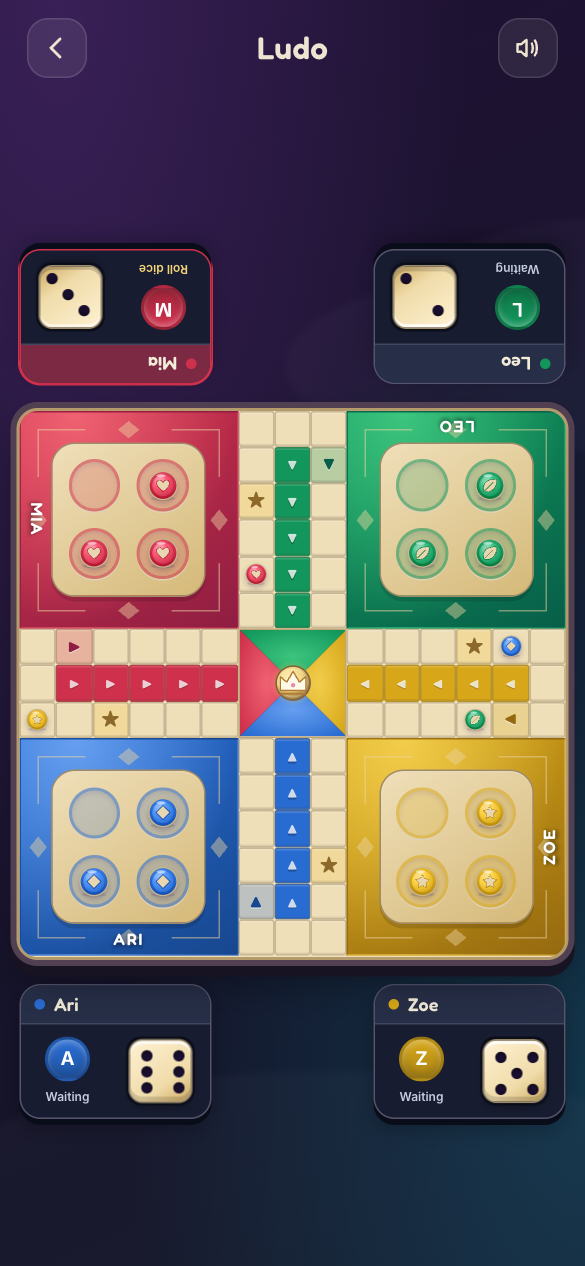
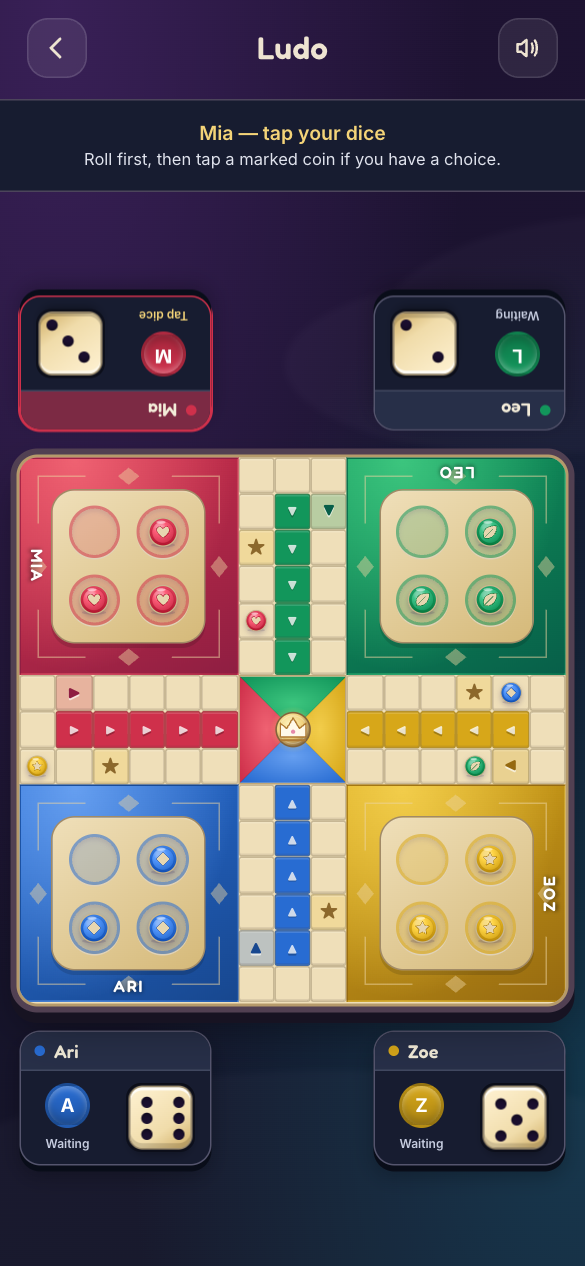
Clarify Ludo next actions and soften sound effects

diff --git a/src/lib/sound.ts b/src/lib/sound.ts
@@ -12,6 +12,7 @@
 // click, etc.), well before they get to the dice.
 
 let ctx: AudioContext | null = null;
+let output: GainNode | null = null;
 let enabled = true;
 let unlocked = false;
 
@@ -21,6 +22,10 @@ function getCtx(): AudioContext | null {
     const AudioCtx = window.AudioContext || (window as unknown as { webkitAudioContext?: typeof AudioContext }).webkitAudioContext;
     if (!AudioCtx) return null;
     ctx = new AudioCtx();
+    // Keep effects in the background, including overlapping celebration notes.
+    output = ctx.createGain();
+    output.gain.value = 0.45;
+    output.connect(ctx.destination);
   }
   if (ctx.state === 'suspended') void ctx.resume();
   return ctx;
@@ -36,7 +41,7 @@ function unlockAudio() {
     const buffer = ac.createBuffer(1, 1, 22050);
     const source = ac.createBufferSource();
     source.buffer = buffer;
-    source.connect(ac.destination);
+    source.connect(output ?? ac.destination);
     source.start(0);
   } catch {
     // ignore — some browsers throw if the context isn't ready yet
@@ -102,7 +107,7 @@ export function playDice() {
     noiseGain.gain.exponentialRampToValueAtTime(0.001, at + dur);
     noise.connect(bp);
     bp.connect(noiseGain);
-    noiseGain.connect(ac.destination);
+    noiseGain.connect(output ?? ac.destination);
     noise.start(at);
     noise.stop(at + dur);
 
@@ -118,7 +123,7 @@ export function playDice() {
       oscGain.gain.linearRampToValueAtTime(0.12, at + 0.003);
       oscGain.gain.exponentialRampToValueAtTime(0.001, at + 0.05);
       osc.connect(oscGain);
-      oscGain.connect(ac.destination);
+      oscGain.connect(output ?? ac.destination);
       osc.start(at);
       osc.stop(at + 0.06);
     }
@@ -139,16 +144,17 @@ export function playMove() {
   osc.frequency.setValueAtTime(820, now);
   osc.frequency.exponentialRampToValueAtTime(560, now + 0.06);
 
-  gain.gain.setValueAtTime(0.25, now);
+  gain.gain.setValueAtTime(0, now);
+  gain.gain.linearRampToValueAtTime(0.16, now + 0.008);
   gain.gain.exponentialRampToValueAtTime(0.001, now + 0.08);
 
   osc.connect(gain);
-  gain.connect(ac.destination);
+  gain.connect(output ?? ac.destination);
   osc.start(now);
   osc.stop(now + 0.1);
 }
 
-// Capture: descending arpeggio, sawtooth + lowpass, slightly menacing.
+// Capture: a warm descending arpeggio with softened harmonics.
 export function playCapture() {
   if (!enabled) return;
   const ac = getCtx();
@@ -162,14 +168,14 @@ export function playCapture() {
     const lp = ac.createBiquadFilter();
     lp.type = 'lowpass';
     lp.frequency.value = 1600;
-    osc.type = 'sawtooth';
+    osc.type = 'triangle';
     osc.frequency.setValueAtTime(freq, start + i * step);
     gain.gain.setValueAtTime(0, start + i * step);
     gain.gain.linearRampToValueAtTime(0.18, start + i * step + 0.01);
     gain.gain.exponentialRampToValueAtTime(0.001, start + i * step + step);
     osc.connect(lp);
     lp.connect(gain);
-    gain.connect(ac.destination);
+    gain.connect(output ?? ac.destination);
     osc.start(start + i * step);
     osc.stop(start + i * step + step + 0.02);
   });
@@ -190,7 +196,7 @@ export function playSnake() {
   gain.gain.linearRampToValueAtTime(0.25, now + 0.04);
   gain.gain.exponentialRampToValueAtTime(0.001, now + 0.65);
   osc.connect(gain);
-  gain.connect(ac.destination);
+  gain.connect(output ?? ac.destination);
   osc.start(now);
   osc.stop(now + 0.7);
 }
@@ -212,7 +218,7 @@ export function playLadder() {
     gain.gain.linearRampToValueAtTime(0.18, start + i * step + 0.01);
     gain.gain.exponentialRampToValueAtTime(0.001, start + i * step + step);
     osc.connect(gain);
-    gain.connect(ac.destination);
+    gain.connect(output ?? ac.destination);
     osc.start(start + i * step);
     osc.stop(start + i * step + step + 0.02);
   });
@@ -236,7 +242,7 @@ export function playHomeArrival() {
     gain.gain.linearRampToValueAtTime(0.22, start + i * step + 0.015);
     gain.gain.exponentialRampToValueAtTime(0.001, start + i * step + 0.32);
     osc.connect(gain);
-    gain.connect(ac.destination);
+    gain.connect(output ?? ac.destination);
     osc.start(start + i * step);
     osc.stop(start + i * step + 0.36);
   });
@@ -259,7 +265,7 @@ export function playWin() {
     gain.gain.linearRampToValueAtTime(0.22, start + i * step + 0.04);
     gain.gain.exponentialRampToValueAtTime(0.001, start + i * step + 0.5);
     osc.connect(gain);
-    gain.connect(ac.destination);
+    gain.connect(output ?? ac.destination);
     osc.start(start + i * step);
     osc.stop(start + i * step + 0.55);
   });
@@ -275,10 +281,11 @@ export function playTap() {
   const now = ac.currentTime;
   osc.type = 'sine';
   osc.frequency.setValueAtTime(1200, now);
-  gain.gain.setValueAtTime(0.08, now);
+  gain.gain.setValueAtTime(0, now);
+  gain.gain.linearRampToValueAtTime(0.06, now + 0.004);
   gain.gain.exponentialRampToValueAtTime(0.001, now + 0.04);
   osc.connect(gain);
-  gain.connect(ac.destination);
+  gain.connect(output ?? ac.destination);
   osc.start(now);
   osc.stop(now + 0.05);
 }
@@ -298,7 +305,7 @@ export function playSafeArrival() {
     gain.gain.linearRampToValueAtTime(0.1, at + 0.012);
     gain.gain.exponentialRampToValueAtTime(0.001, at + 0.28);
     osc.connect(gain);
-    gain.connect(ac.destination);
+    gain.connect(output ?? ac.destination);
     osc.start(at);
     osc.stop(at + 0.3);
   });

diff --git a/src/games/ludo/turnGuidance.ts b/src/games/ludo/turnGuidance.ts
@@ -1,0 +1,28 @@
+import type { LudoGameState } from './types';
+
+type TurnState = Pick<LudoGameState, 'players' | 'currentPlayerIndex' | 'gamePhase' | 'isRolling' | 'diceValue' | 'selectableTokenIds' | 'message'>;
+
+// Derive instructions from the actual phase, including automatic moves and bots.
+export function turnGuidance(state: TurnState): { title: string; detail: string } {
+  const { players, currentPlayerIndex, gamePhase, isRolling, diceValue, selectableTokenIds, message } = state;
+  const player = players[currentPlayerIndex];
+  if (!player || gamePhase === 'setup') return { title: 'Getting ready', detail: '' };
+  if (gamePhase === 'finished') return { title: message, detail: '' };
+  if (isRolling) return { title: `${player.name} is rolling…`, detail: 'Wait for the dice to settle.' };
+  if (gamePhase === 'selecting') {
+    if (player.isCPU) return { title: `${player.name} is choosing a coin…`, detail: 'The bot will move automatically.' };
+    const choices = players.flatMap(p => p.tokens).filter(t => selectableTokenIds.includes(t.id));
+    const hasYard = choices.some(t => t.state === 'yard');
+    const hasPath = choices.some(t => t.state === 'active');
+    const detail = diceValue === 6 && hasYard
+      ? hasPath ? 'Bring a coin out of its yard or move one 6 spaces.' : 'Tap a marked coin in your yard to bring it onto the board.'
+      : `Tap a marked coin on the board to move ${diceValue} spaces.`;
+    return { title: `${player.name} rolled ${diceValue} — tap a marked coin`, detail };
+  }
+  if (gamePhase === 'moving') return { title: `${player.name}’s coin is moving…`, detail: 'The move finishes automatically.' };
+  if (diceValue !== null) return { title: message, detail: 'Please wait for the next turn.' };
+  return {
+    title: player.isCPU ? `${player.name} is about to roll…` : `${player.name} — tap your dice`,
+    detail: player.isCPU ? 'The bot plays automatically.' : message.includes('Bonus turn') ? 'Bonus turn — roll again.' : 'Roll first, then tap a marked coin if you have a choice.',
+  };
+}

diff --git a/src/games/ludo/turnGuidance.test.ts b/src/games/ludo/turnGuidance.test.ts
@@ -1,0 +1,31 @@
+import { describe, expect, it } from 'vitest';
+import { turnGuidance } from './turnGuidance';
+import type { Player } from './types';
+
+const player: Player = {
+  id: 'blue', name: 'Asha', color: 'blue', displayColor: 'blue', finishOrder: 0, lastRoll: 6,
+  tokens: [
+    { id: 'yard', color: 'blue', displayColor: 'blue', state: 'yard', pathIndex: -1 },
+    { id: 'path', color: 'blue', displayColor: 'blue', state: 'active', pathIndex: 4 },
+  ],
+};
+const state = { players: [player], currentPlayerIndex: 0, gamePhase: 'selecting' as const, isRolling: false, diceValue: 6, selectableTokenIds: ['yard', 'path'], message: '' };
+
+describe('turn guidance', () => {
+  it('explains both choices on a six, and yard-only entry', () => {
+    expect(turnGuidance(state).detail).toContain('or move one 6 spaces');
+    expect(turnGuidance({ ...state, selectableTokenIds: ['yard'] }).detail).toContain('in your yard');
+  });
+  it('does not ask humans to act during bot or automatic movement', () => {
+    expect(turnGuidance({ ...state, players: [{ ...player, isCPU: true }] }).detail).toContain('automatically');
+    expect(turnGuidance({ ...state, gamePhase: 'moving' }).detail).toContain('automatically');
+  });
+  it('shows a roll instruction only when another roll is available', () => {
+    expect(turnGuidance({ ...state, gamePhase: 'rolling', diceValue: null }).title).toContain('tap your dice');
+    expect(turnGuidance({ ...state, gamePhase: 'rolling', message: 'No valid moves!' }).title).toBe('No valid moves!');
+    expect(turnGuidance({ ...state, isRolling: true }).title).toContain('is rolling');
+  });
+  it('explains ordinary moves without suggesting a yard exit', () => {
+    expect(turnGuidance({ ...state, diceValue: 3, selectableTokenIds: ['path'] }).detail).toBe('Tap a marked coin on the board to move 3 spaces.');
+  });
+});

diff --git a/src/pages/LudoGame.tsx b/src/pages/LudoGame.tsx
@@ -10,7 +10,9 @@ import PlayerHalfRow from '../games/ludo/components/PlayerHalfRow';
 import type { Player, PlayerColor } from '../games/ludo/types';
 import WinnerModal from '../components/WinnerModal';
 import ConfirmExitModal from '../components/ConfirmExitModal';
+import { useSettings } from '../games/settings/store';
 import LiveRegion from '../components/ui/LiveRegion';
+import { turnGuidance } from '../games/ludo/turnGuidance';
 import { useFlow } from '../games/flow/store';
 import { pickCpuToken } from '../games/ludo/cpu';
 import { useLayoutMode } from '../lib/useLayout';
@@ -18,6 +20,7 @@ import { useRecordOnFinish } from '../lib/useRecordOnFinish';
 
 const LudoGame: React.FC = () => {
   const navigate = useNavigate();
+  const showInstructions = useSettings(s => s.ludoInstructions);
   const initialized = useRef(false);
   const flowPlayers = useFlow(s => s.players);
   const flowGame = useFlow(s => s.game);
@@ -158,14 +161,20 @@ const LudoGame: React.FC = () => {
         position: 'relative',
       };
 
+  const guidance = turnGuidance({ players, currentPlayerIndex, gamePhase, isRolling, diceValue, selectableTokenIds, message });
+
   return (
     <PhoneShell decorative={false} fluid>
-      <LiveRegion text={message} />
       <Header
         title="Ludo"
         onBack={handleBack}
         action={<SoundToggle />}
       />
+
+      {showInstructions ? <div className="ludo-turn-guide" role="status" aria-live="polite" aria-atomic="true">
+        <strong>{guidance.title}</strong>
+        <span>{guidance.detail}</span>
+      </div> : <LiveRegion text={message} />}
 
       {isWide ? (
         <div

diff --git a/index.html b/index.html
@@ -17,12 +17,12 @@
     <meta property="og:title" content="Ludo Pitara — free Ludo & Snakes and Ladders, no ads" />
     <meta property="og:description" content="Play with friends on one phone or against bots. No ads, no sign-up, works offline." />
     <meta property="og:url" content="https://udeshvirk.github.io/ludo-pitara/" />
-    <meta property="og:image" content="https://udeshvirk.github.io/ludo-pitara/og-image-f053263353.png" />
+    <meta property="og:image" content="https://udeshvirk.github.io/ludo-pitara/og-image-13709b36df.png" />
     <meta property="og:image:width" content="1200" />
     <meta property="og:image:height" content="630" />
     <meta property="og:image:alt" content="Ludo and Snakes & Ladders boards on a phone" />
     <meta name="twitter:card" content="summary_large_image" />
-    <meta name="twitter:image" content="https://udeshvirk.github.io/ludo-pitara/og-image-f053263353.png" />
+    <meta name="twitter:image" content="https://udeshvirk.github.io/ludo-pitara/og-image-13709b36df.png" />
     <meta name="theme-color" content="#190a2e" />
     <meta name="apple-mobile-web-app-capable" content="yes" />
     <meta name="apple-mobile-web-app-status-bar-style" content="black-translucent" />

diff --git a/src/index.css b/src/index.css
@@ -350,3 +350,11 @@ button:focus-visible, a:focus-visible { outline: 3px solid #ffe18c; outline-offs
 .player-pod-compact .player-pod-tray { padding: 7px 9px; }
 .dice-well { padding: 3px; border-radius: 10px; background: #101323; box-shadow: inset 0 2px 4px #0006; }
 .table-die:focus-visible { outline: 2px solid #f1d27d; outline-offset: 6px; }
+
+/* Persistent next-action guidance, kept outside the square board. */
+.ludo-turn-guide { flex-shrink: 0; min-height: 62px; padding: 7px 13px; background: #171c30; border-block: 1px solid #4c455b; text-align: center; display: flex; flex-direction: column; justify-content: center; gap: 3px; }
+.ludo-turn-guide strong { color: #f4d478; font: 600 13px var(--font-ui); }
+.ludo-turn-guide span { color: #e0e3ed; font: 400 11px/1.35 var(--font-ui); }
+.ludo-coin-choice { border-radius: 50%; outline: 2px solid #fff2ba; outline-offset: 1px; box-shadow: 0 0 0 4px #37291d; }
+.ludo-coin-choice:focus-visible { outline: 3px solid white; outline-offset: 3px; }
+.ludo-coin-marker { position: absolute; top: -12px; left: 50%; transform: translateX(-50%); color: #fff2ba; font-size: 12px; line-height: 12px; text-shadow: 0 1px 2px #000, 1px 0 2px #000; pointer-events: none; }

diff --git a/src/components/ui/Pod.tsx b/src/components/ui/Pod.tsx
@@ -12,6 +12,7 @@ interface PodProps {
   lastRoll?: number | null;
   onRoll?: () => void;
   canRoll: boolean;
+  statusText?: string;
   compact?: boolean;
   isBot?: boolean;
   arrowSide?: 'left' | 'right';
@@ -20,8 +21,8 @@ interface PodProps {
 // A player identity strip sits above a dedicated dice tray. Names and turn
 // status stay inside the card, with no detached arrows or duplicate captions.
 export default function Pod({ color, label, name, isActive, isRolling, diceValue,
-  lastRoll = null, onRoll, canRoll, compact = false, isBot = false }: PodProps) {
-  const status = isActive ? (isRolling ? 'Rolling' : canRoll ? (isBot ? 'Bot turn' : 'Roll dice') : 'Your move') : 'Waiting';
+  lastRoll = null, onRoll, canRoll, statusText, compact = false, isBot = false }: PodProps) {
+  const status = statusText ?? (isActive ? (isRolling ? 'Rolling' : canRoll ? (isBot ? 'Bot turn' : 'Roll dice') : 'Your move') : 'Waiting');
   return (
     <div className={`player-pod ${compact ? 'player-pod-compact' : ''} ${isActive ? 'player-pod-active' : ''}`}
       aria-current={isActive ? 'true' : undefined} style={{ '--player-color': color } as CSSProperties}>

diff --git a/vite.config.ts b/vite.config.ts
@@ -25,9 +25,9 @@ export default defineConfig({
         theme_color: '#190a2e',
         // Phone screenshots give Android Chrome its richer install sheet.
         screenshots: [
-          { src: 'screenshots/ludo.png?v=e45e0717f7', sizes: '585x1266', type: 'image/png', form_factor: 'narrow', label: 'Ludo' },
-          { src: 'screenshots/snakes-and-ladders.png?v=ad81b54c2c', sizes: '585x1266', type: 'image/png', form_factor: 'narrow', label: 'Snakes & Ladders' },
-          { src: 'screenshots/game-select.png?v=dab704a093', sizes: '585x1266', type: 'image/png', form_factor: 'narrow', label: 'Choose a game' },
+          { src: 'screenshots/ludo.png?v=c3c603b508', sizes: '585x1266', type: 'image/png', form_factor: 'narrow', label: 'Ludo' },
+          { src: 'screenshots/snakes-and-ladders.png?v=5b553b49f7', sizes: '585x1266', type: 'image/png', form_factor: 'narrow', label: 'Snakes & Ladders' },
+          { src: 'screenshots/game-select.png?v=ba4f5e03cf', sizes: '585x1266', type: 'image/png', form_factor: 'narrow', label: 'Choose a game' },
         ],
         icons: [
           {

diff --git a/src/games/ludo/components/Token.tsx b/src/games/ludo/components/Token.tsx
@@ -26,8 +26,11 @@ const LudoTokenInner: React.FC<TokenProps> = ({ tokenId, color, isSelectable, st
   return (
     <motion.button
       layoutId={tokenId}
+      type="button"
+      className={isSelectable ? 'ludo-coin-choice' : undefined}
+      disabled={!isSelectable || suppressClick}
       onClick={() => !suppressClick && isSelectable && selectToken(tokenId)}
-      aria-label={`${color} token`}
+      aria-label={`${isSelectable ? 'Move' : ''} ${color} coin ${tokenId.split('-').at(-1)}`}
       style={{
         position: 'absolute',
         left: `${leftPercent}%`,
@@ -52,6 +55,7 @@ const LudoTokenInner: React.FC<TokenProps> = ({ tokenId, color, isSelectable, st
       // is preferred over a corner-cutting glide.
       transition={{ type: 'tween', ease: 'linear', duration: 0.09 }}
     >
+      {isSelectable && <span className="ludo-coin-marker" aria-hidden="true">▼</span>}
       <Coin color={PLAYER_COLORS[color].bg} active={isSelectable} />
     </motion.button>
   );

diff --git a/src/games/ludo/components/PlayerHalfRow.tsx b/src/games/ludo/components/PlayerHalfRow.tsx
@@ -90,7 +90,8 @@ const PlayerHalfRow: React.FC<PlayerHalfRowProps> = ({ slots, compact = false, a
               diceValue={diceValue}
               lastRoll={player.lastRoll}
               onRoll={rollDice}
-              canRoll={gamePhase === 'rolling' && showsLiveDice}
+              canRoll={gamePhase === 'rolling' && showsLiveDice && !isRolling && diceValue === null && !currentPlayer?.isCPU}
+              statusText={isActive ? isRolling ? 'Rolling' : currentPlayer?.isCPU ? 'Bot turn' : gamePhase === 'selecting' ? 'Tap a coin' : gamePhase === 'moving' ? 'Moving' : diceValue === null ? 'Tap dice' : 'Please wait' : 'Waiting'}
               compact={compact}
               isBot={!!player.isCPU}
               arrowSide={podArrowSide}

diff --git a/src/games/settings/store.ts b/src/games/settings/store.ts
@@ -4,11 +4,13 @@ import { setSoundEnabled } from '../../lib/sound';
 import { setHapticsEnabled } from '../../lib/haptics';
 
 export interface Settings {
+  ludoInstructions: boolean;
   sound: boolean;
   haptics: boolean;
 }
 
 const DEFAULTS: Settings = {
+  ludoInstructions: true,
   sound: true,
   haptics: true,
 };
@@ -43,6 +45,7 @@ export const useSettings = create<SettingsStore>((set) => ({
 
 function extractSettings(s: SettingsStore): Settings {
   return {
+    ludoInstructions: s.ludoInstructions,
     sound: s.sound,
     haptics: s.haptics,
   };

diff --git a/src/pages/Settings.tsx b/src/pages/Settings.tsx
@@ -31,6 +31,10 @@ const SettingsPage: React.FC = () => {
           />
         </Section>
 
+        <Section title="Gameplay">
+          <OptionTile label="Ludo instructions" description="Show next-action guidance above the board" checked={settings.ludoInstructions} onChange={v => settings.set('ludoInstructions', v)} />
+        </Section>
+
         <Section title="Data">
           <Btn variant="danger" onClick={settings.reset}>Reset all settings</Btn>
         </Section>
